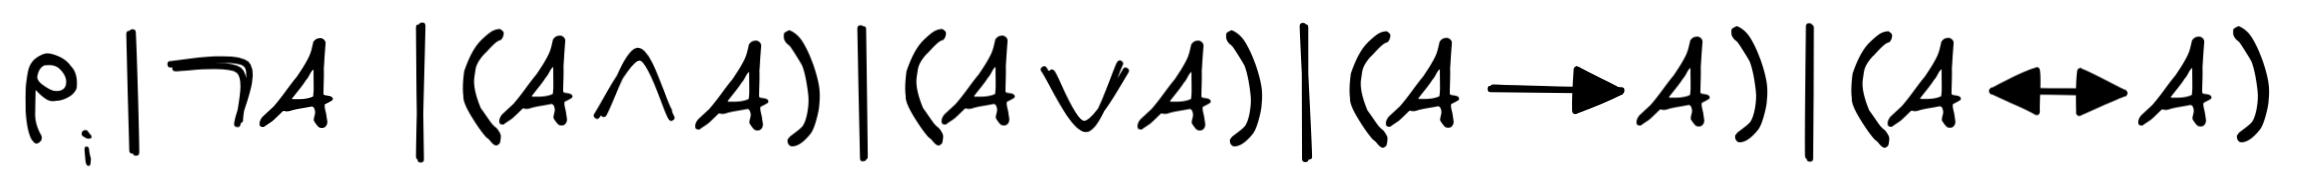
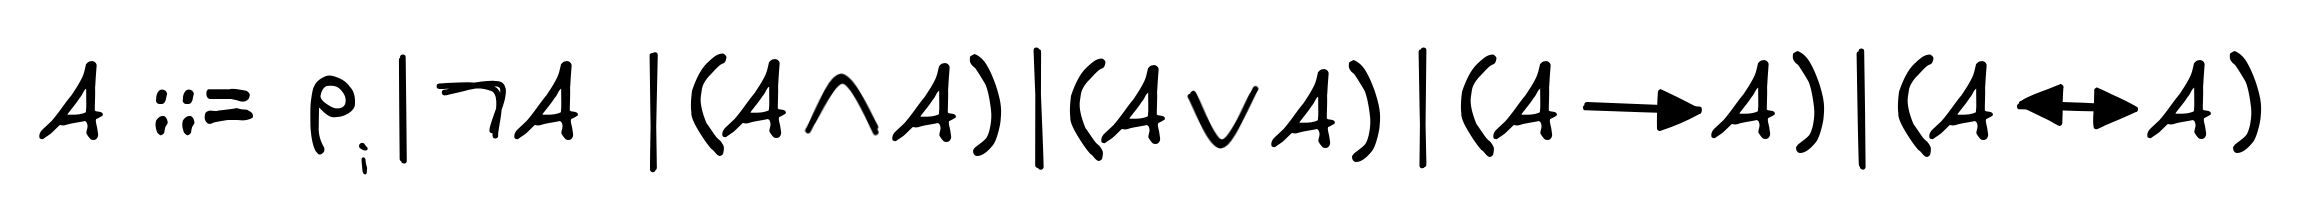
Fix two things in formal languages
The BNF didn't have the formula
The size of illustrations was too small

Changed region(s): [[0.0, 0.1397, 0.9996, 0.8939]]

diff --git a/content/textbook/formal-languages/index.md b/content/textbook/formal-languages/index.md
@@ -15,7 +15,7 @@ params:
 
 # Formal languages
 
-{{< img src="img/ai_language.png" class="rounded  float-start inert-img img-fluid m-2" width="150px">}}
+{{< img src="img/ai_language.png" class="rounded  float-start inert-img img-fluid m-2" width="350px">}}
 When we try to develop AI systems, we immediately run into an issue: computers,
 which are the basis for any modern AI technology, "speak" a different language
 than us—the proverbial 1's and 0's. 
@@ -24,7 +24,7 @@ That is, even if we understand what intelligent behavior is and we manage to
 break it down into instructions that a computer can, in principle, follow, we
 still need to express these instructions in an unambiguous language that the
 computer can "understand" (i.e. execute).
-{{< img src="img/ai_understand.png" class="rounded  float-end inert-img img-fluid m-2" width="150px">}}
+{{< img src="img/ai_understand.png" class="rounded  float-end inert-img img-fluid m-2" width="350px">}}
 We need to write *code*.
 
 Moreover, since intelligent behavior involves knowledge about the world and
@@ -79,7 +79,7 @@ being in an environment where the language was used. Because natural languages
 are acquired in this way, they are also very susceptible to change. They
 constantly evolve, just by being used and passed on to next generations. 
 
-{{< img src="img/ai_learning_language.png" class="rounded float-start inert-img img-fluid mx-2 my-1" width="250px">}}
+{{< img src="img/ai_learning_language.png" class="rounded float-start inert-img img-fluid mx-2 my-1" width="450px">}}
 In contrast, nobody learns Python, propositional logic or algebraic chess
 notation simply by interacting with their parents. Also, these languages clearly
 didn't evolve naturally and while the conventions of these languages may change
@@ -216,9 +216,9 @@ choose formal over natural languages.
 ### Over-expressiveness
 
 To illustrate the problem of over-expressiveness, let us look at another case of modus ponens:
-{{< img src="img/box_example.png" class="rounded mx-auto my-2 d-block inert-img img-fluid" width="400px">}}
+{{< img src="img/box_example.png" class="rounded mx-auto my-2 d-block inert-img img-fluid" width="800px">}}
 
-{{< img src="img/ai_magic.png" class="rounded float-end inert-img img-fluid mx-2 my-1" width="250px">}}
+{{< img src="img/ai_magic.png" class="rounded float-end inert-img img-fluid mx-2 my-1" width="450px">}}
 Say a magician places a rabbit in a cardboard box and they close the box. After
 a short while they open it again and show the audience that the box is empty.
 The audience gasps. Why? Because on the basis of a common assumption like 
@@ -247,7 +247,7 @@ must be false. In other words, these people believe in magic.
 
 Now, compare this story to the following statement:
 
-{{< img src="img/odd_numbers.png" class="rounded mx-auto my-2 d-block inert-img img-fluid" width="400px">}}
+{{< img src="img/odd_numbers.png" class="rounded mx-auto my-2 d-block inert-img img-fluid" width="800px">}}
 
 
 Say now I calculate:
@@ -268,7 +268,7 @@ are both odd. Or perhaps my observation that
 even believe that their maths book is wrong in stating {{< excalifont >}}N{{<
 /excalifont >}}. 
 
-{{< img src="img/ai_math.png" class="rounded float-start inert-img img-fluid mx-2 my-1" width="250px">}}
+{{< img src="img/ai_math.png" class="rounded float-start inert-img img-fluid mx-2 my-1" width="450px">}}
 In any case, both the case of magic and the case of odd number multiplication
 show that modus ponens is a very strong inference. As soon as we have all the
 ingredients for modus ponens, we cannot help but draw the conclusion. And if
@@ -391,7 +391,7 @@ set multiple times.
 It can sometimes be helpful (but also sometimes hurtful!) to think of a set as
 "bag" of objects from an ambient "space". Consider the following illustration:
 
-{{< img src="img/set.png" class="rounded mx-auto my-2 d-block inert-img img-fluid" width="400px">}}
+{{< img src="img/set.png" class="rounded mx-auto my-2 d-block inert-img img-fluid" width="900px">}}
 
 The yellow rectangle is out ambient space of objects, everything in its confines
 is a potential member of our set. It contains a bunch of things: animals,
@@ -551,7 +551,7 @@ therefore not a numeral.[^mp]
 
 ### The language of logic
 
-{{< img src="img/logic_abc.png" class="rounded  float-end inert-img img-fluid m-2" width="250px">}}
+{{< img src="img/logic_abc.png" class="rounded  float-end inert-img img-fluid m-2" width="450px">}}
 Just like the language of numeral notation we saw above, logics are also sets of
 sequences of symbols. We often refer to these sequences as **formulas**, so a
 logic is a formal language consisting of formulas. In order to specify such a
@@ -670,7 +670,7 @@ the BNF for valid email addresses. Check it out 🤓
 
 ## Parsing
 
-{{< img src="img/ai_confused.png" class="rounded  float-start inert-img img-fluid m-2" width="200px" >}} Now that we've formally defined what formal
+{{< img src="img/ai_confused.png" class="rounded  float-start inert-img img-fluid m-2" width="400px" >}} Now that we've formally defined what formal
 languages and their formulas _are_, let's look at how computers (and also
 _perhaps_ humans, subconsciously) read these formulas.
 
@@ -885,7 +885,7 @@ statements. To illustrate, let's consider a toy example. Suppose that our friend
 {{< logo >}} is looking for an important letter, which should be somewhere
 around this desk with two drawers:
 
-{{< img src="img/ai_drawers.png" class="rounded mx-auto my-4 d-block inert-img img-fluid" width="400px">}}
+{{< img src="img/ai_drawers.png" class="rounded mx-auto my-4 d-block inert-img img-fluid" width="700px">}}
 
 Suppose we have some information that we want to pass on to {{< logo >}}, who
 understands the language of propositional logic. Here are a few claims in
@@ -896,7 +896,7 @@ that the letter is in the left drawer, and {{< excalifont >}}RIGHT{{<
 /excalifont >}} is a propositional variable, which states that the letter is in
 the right drawer:
 
-{{< img src="img/guidelines.png" class="rounded mx-auto my-4 d-block inert-img img-fluid" width="600px">}}
+{{< img src="img/guidelines.png" class="rounded mx-auto my-4 d-block inert-img img-fluid" width="100%">}}
 
 These examples can be a helpful guideline, but it's important to keep in mind
 that formalization and knowledge representation is more of an **engineering
